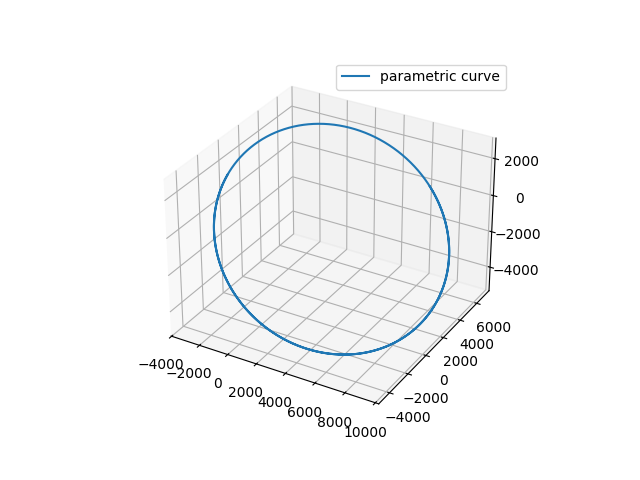
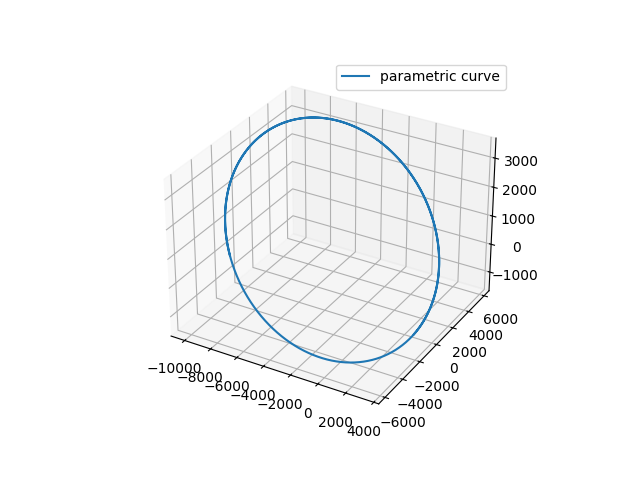
3c in process

Changed region(s): [[0.2188, 0.1875, 0.8438, 0.9062]]

diff --git a/3с/modelling.py b/3с/modelling.py
@@ -1,7 +1,18 @@
-import numpy as np
 import matplotlib.pyplot as plt
+import numpy as np
+
 from rkSolver import RK4Model
 from init3c import *
+
+def gravMoment(rIF, Jtense, quatBF, mu):
+    # rIF - радиус-вектор КА в ССК (np.ndarray dim3)
+    # Jtense - тензор инерции (np.ndarray dim 3x3)
+    # quat - кватернион ориентации из ИСК в ССК (np.ndarray dim4)
+
+    rC  = np.linalg.norm(rIF)
+    rBF = Quaternion(quatBF).IF2BF(rIF)
+    JrBF = Jtense.dot(rBF)
+    return 3 * mu / rC**5 * np.dot(rBF, JrBF)
 
 # y = np.array([rIF, vIF, qBF, omegaBf])
 # y[0:3] == rIF
@@ -9,30 +20,104 @@ from init3c import *
 # y[6:10] == qBF.q
 # y[10:] == omegaBf
 gravMomentMoving = lambda y: np.array([
+    # изменение радиус вектора dr_dt = v
     *y[3:6],
+    # изменение скорости, задача 2х тел dv_dt = -mu * rVec / r**3
     *(-mu * y[0:3] / np.linalg.norm(y[0:3])**3),
-    *(1.0 / 2 * (Quaternion(y[6:10]).vecMulQuat(y[10:]))),
-    *(np.dot(
-        np.linalg.inv(Jtense),
-        np.cross(np.dot(Jtense, y[10:]), y[10:]) + (3 * mu / (np.linalg.norm(y[0:3]))**5) *
-        np.cross(Quaternion(y[6:10]).IF2BF(y[0:3]), np.dot(Jtense, Quaternion(y[6:10]).IF2BF(y[0:3])))
-    ))
-    ], dtype=float)
+    # формула Эйлера для кватернионов dq_dt = 1/2[omegaBF x q]
+    *(0.5 * (Quaternion(y[6:10]).quatMulVec(y[10:]))),
+    # изменение полной угловой скорости
+    # domega_dt = (J^{-1})([J(omega) x omega] + 3mu/r**3([A(rIF) x J(A(rIF))])
+    # J - тензор инерции, A(rIF) = rBF = Qconj * rIF * Q, где Q - кватернион
+    *(np.linalg.inv(Jtense)).dot(
+        np.cross(Jtense.dot(y[10:]), y[10:]) + gravMoment(y[0:3], Jtense, y[6:10], mu)
+            )
+], dtype=float)
 
+# интегрирование уравнений движения
 ySolution = RK4Model(phaseVec, t, dt, gravMomentMoving)
-omegaArr = ySolution[:, 10:]
-# JacobiIntegral = 1 / 2 * np.dot(omegaArr, np.dot(Jtense, omegaArr)) +
-#     3 / 2 *
+# массив абсолютной угловой скорости в ССК
+omegaBF = ySolution[:, 10:]
 rVecIF = ySolution[:, 0:3]
 vVecIF = ySolution[:, 3:6]
+cVecIF = np.cross(rVecIF, vVecIF)
 
-kineticMoment = [np.linalg.norm(np.cross(rVecIF[i], vVecIF[i])) for i in range(len(t))]
+quatBF = [Quaternion(ySolution[i, 6:10]) for i in range(len(t))]
+omegaOrbIF = [cVecIF[i] / np.linalg.norm(cVecIF[i]) for i in range(len(t))]
+omegaOrbBF = [quatBF[i].IF2BF(omegaOrbIF[i]) for i in range(len(t))]
+omegaRelBF = omegaBF - omegaOrbBF
+# модуль орбитальной угловой скорости
+omega0 = np.array([np.sqrt(mu / np.linalg.norm(rVecIF[i])**3) for i in range(len(t))])
+# орты ССК
+E1 = np.array([1, 0, 0], dtype=float)
+E2 = np.array([0, 1, 0], dtype=float)
+E3 = np.cross(E1, E2)
+
+# интеграл Якоби h = 1/2 (omegaRel, J(omegaRel)) - 1/2 * omega0**2(E2, J(E2)) + 3/2(E3, J(E3))
+JacobiIntegral = np.zeros(len(t))
+for i in range(len(t)):
+
+    JacobiIntegral[i] = (
+            0.5 * np.dot(omegaRelBF[i], np.dot(Jtense, omegaRelBF[i])) +
+            omega0[i]**2 * (1.5 * np.dot(E3, np.dot(Jtense, E3)) - 0.5 * np.dot(np.dot(Jtense, E2), E2))
+                        )
+
+
+kineticMoment = [(np.dot(omegaOrbBF[i], Jtense.dot(omegaOrbBF[i])) / 2
+                         + np.dot(omegaRelBF[i], Jtense.dot(omegaRelBF[i])) / 2) for i in range(len(t))]
 
 plt.plot(t, kineticMoment)
 plt.title('kineticMoment = func(t)')
-plt.xlabel('kineticMoment')
-plt.ylabel('t')
+plt.ylabel('kineticMoment')
+plt.xlabel('t')
 plt.minorticks_on()
 plt.grid(which="both", axis='both')
 plt.show()
+plt.savefig('kineticMoment3c.png')
 plt.close()
+
+plt.plot(t, np.round(JacobiIntegral, 6))
+plt.title('JacobiIntegral = func(t)')
+plt.ylabel('JacobiIntegral')
+plt.xlabel('t')
+plt.minorticks_on()
+plt.grid(which="both", axis='both')
+plt.show()
+plt.savefig('JacobiIntegral3c.png')
+plt.close()
+
+for i in range(3):
+    omega = omegaBF[:, i]
+    plt.plot(t, np.round(omega, 6), label = 'omega_{}'.format(i))
+    plt.legend()
+plt.title('angle velovity = func(t)')
+plt.ylabel('angle velovity')
+plt.xlabel('t')
+plt.minorticks_on()
+plt.grid(which="both", axis='both')
+plt.show()
+plt.savefig('angleVelovity3c.png')
+plt.close()
+
+# plt.plot(t, np.round(omega0,5))
+# plt.title('angle velovity orb= func(t)')
+# plt.ylabel('angle velovity orb')
+# plt.xlabel('t')
+# plt.legend()
+# plt.minorticks_on()
+# plt.grid(which="both", axis='both')
+# plt.show()
+# plt.savefig('angleVelovityOrb3c.png')
+# plt.close()
+#
+
+# ax = plt.figure().add_subplot(projection='3d')
+# # Prepare arrays x, y, z
+# x = rVecIF[:, 0]
+# y = rVecIF[:, 1]
+# z = rVecIF[:, 2]
+# ax.plot(x, y, z, label='parametric curve')
+# plt.legend()
+# plt.show()
+# plt.savefig('3dOrbitGraph3c.png')
+# plt.close()

diff --git a/3с/init3c.py b/3с/init3c.py
@@ -2,6 +2,8 @@ import  numpy as np
 from orbitalToCartesian import orbitalToCartesian
 from quaternion import Quaternion
 
+# IF - ИСК, BF - ССК, OF - ОСК
+# переводит вектор vecIF из ИСК в ОСК
 def IFtoOF(rIF, vIF, vecIF):
     cVec = np.cross(rIF, vIF)  # вектор момента импульса
     # орты связанной системы координат
@@ -10,39 +12,37 @@ def IFtoOF(rIF, vIF, vecIF):
     e1 = np.cross(e2, e3)
     # матрица перехода из ОСК в ИСК
     matrixOBF2IF = np.array([e1, e2, e3], dtype=float)
-    vecOF = np.dot(matrixOBF2IF, vecIF)
+    vecOF = matrixOBF2IF.dot(vecIF)
     return vecOF
 
-
+# параметры моделирования
 dt = float(1.0) # шаг моделирования РК4
 tFinal = 10000.0 # время моделирования
 t = np.arange(0.0, tFinal, dt) # массив эпох
 
+# орбитальные элементы для задания начальных данных r, v
 a0 = 7000 # большая полуось (км)
-ecc0 = 0.5 # эксцентреситет
+ecc0 = 0.0 # эксцентреситет - круговая орбита
 trueAnomaly0 = np.deg2rad(15) # истинная аномалия
 raan0 = np.deg2rad(45) # долгота восходящего узла
 inc0 = np.deg2rad(40)  # наклонение
 aop0 = np.deg2rad(120) # аргумент перицентра
-mu = 398600.4418 # km^3 / sec^2 # гравитационный параметр
+
+# гравитационный параметр
+mu = 398600.4418 # km^3 / sec^2
 
 # тензор инерции
-Jtense = np.array([[0.4, 0, 0], [0, 0.5, 0], [0, 0, 0.3]], dtype=float)
+Jtense = np.diag([3.0,4.0,2.0]) * 1e-6# кг*км^2
+
 # получаем начальные радиус-вектор и скорость в ИСО
 [rIF0, velIF0] = orbitalToCartesian(a0, ecc0, trueAnomaly0, raan0, inc0, aop0, mu)
 
-# ориентация КА относительно ОСК
+# кватернион ориентации, задаёт переход из ИСК в ССК
 # отсылается к классу Quaternion  в файле quaternion.py
-quat0 = Quaternion(np.random.normal(0, 1, 4))
+quat0 = Quaternion(np.array([1.0, 0, 0, 0], dtype= float))
 
-# начальная относительная угловая скорость в ССК задаётся случайным образом
-omegaRelBF = np.array([0.001, np.random.normal(np.pi / 90, np.pi / 900), 0.001])
-# (переносная) угловая скорость движения по орбите в начальный момент в ИСО
-omegaIForb0 = np.cross(rIF0, velIF0) / np.linalg.norm(rIF0)**2
-# (переносная) угловая скорость движения по орбите в начальный момент в ССК
-omegaBForb0 = quat0.IF2BF(omegaIForb0)
-# полная угловая скорость в ССК
-omegaBF0 = omegaBForb0 + omegaRelBF
+# полная угловая скорость в ССК в начальный момент
+omegaBF0 = np.array([0.001, 0.001, 0.001], dtype=float) # рад/с
 
 # начальный фазовый вектор [rx, ry, rx, vx, vy, vz, q0, qi, qj, qk, omega1, omega2, omega3]
 phaseVec = np.array([*rIF0, *velIF0, *quat0.q, *omegaBF0], dtype=float)

diff --git a/2a/twoBodiesTask.py b/2a/twoBodiesTask.py
@@ -1,3 +1,5 @@
+import numpy as np
+
 from rkSolver import RK4Model
 from init2a import *
 import  matplotlib.pyplot as plt
@@ -25,6 +27,7 @@ def orbitalToCartesian(a, ecc, trueAnomaly, raan, inc, aop):
     rVecISC = rotRaan.dot(rotInc.dot(rotAop.dot(rVecOSC)))
     velVecISC = rotRaan.dot(rotInc.dot(rotAop.dot(velVecOSC)))
     return np.concatenate((rVecISC, velVecISC), axis=None)
+
 
 def cartesianToOrbital(stateRV, mu):
 
@@ -59,18 +62,19 @@ def cartesianToOrbital(stateRV, mu):
 
     eccVec = 1 / mu * (np.cross(vVec, cVec) - mu * (rVec / r))
     # aop = (np.arctan2(eccVec[1], eccVec[0]) - raan) % (2 * np.pi) if ecc > 1e-8 else None  # argument of pericenter else NaN
-    aop = np.rad2deg(np.arctan2(np.dot(clVec, fVec), np.dot(lVecNorm, fVec)))
+    aop = np.rad2deg(np.arctan2(np.dot(clVec, fVec), np.dot(lVecNorm, fVec)) - np.pi/6)
     trueAnomaly = np.rad2deg((np.arccos(np.dot(eccVec/ecc, rVec/r))) % (2 * np.pi)) if ecc > 1e-8 else None
-
+    print(aop)
     return np.array([inc, raan, a, ecc, aop, trueAnomaly, c, f])
 
-state0 = orbitalToCartesian(a0, ecc0, trueAnomaly0, raan0, inc0, aop0)
-
+state0 = orbitalToCartesian(a0, ecc0, trueAnomaly0, raan0, inc0, aop0, mu)
+cartesianToOrbital(state0, mu)
 
 twoBodyModel = lambda stateVec: np.concatenate((stateVec[3:], -mu * stateVec[0:3] / np.linalg.norm(stateVec[0:3])**3),axis=None)
 stateRVarr = RK4Model(state0, t, dt, twoBodyModel)
-ax = plt.figure().add_subplot(projection='3d')
 
+
+ax = plt.figure().add_subplot(projection='3d')
 # Prepare arrays x, y, z
 x = stateRVarr[:, 0]
 y = stateRVarr[:, 1]

diff --git a/3с/quaternion.py b/3с/quaternion.py
@@ -5,6 +5,7 @@ class Quaternion:
     def __init__(self, q = np.array([1.0, 0.0, 0.0, 0.0])):
         self.q = np.array(q, dtype=float)
         self.normalize()
+
     # нормируем np.array() для __init__
     def normalize(self):
         norm = np.linalg.norm(self.q)
@@ -13,6 +14,7 @@ class Quaternion:
             self.q = self.q / norm
         else:
             self.q = np.array([1, 0, 0, 0], dtype=float)
+
     # переопределение оператора * для кватернионного умножения
     def __mul__(self, other):
         # other - объект класса Quaternion
@@ -20,7 +22,7 @@ class Quaternion:
             q1 = self.q
             q2 = other.q
 
-            qMult = np.zeros(4)
+            qMult = np.zeros(4, dtype=float)
             qMult[0] = q1[0] * q2[0] - np.dot(q1[1:], q2[1:])
             qMult[1:] = q1[0] * q2[1:] + q2[0] * q1[1:] + np.cross(q1[1:], q2[1:])
 
@@ -53,7 +55,7 @@ class Quaternion:
     def IF2BF(self, vecIF):
 
         quatVecIF = Quaternion(np.array([0.0, *vecIF], dtype=float))
-        quatVecBF = (self.getConjugate() * quatVecIF) * self
+        quatVecBF = self.getConjugate() * quatVecIF * self
         vecBF = quatVecBF.q[1:]
 
         return vecBF

diff --git a/3с/orbitalToCartesian.py b/3с/orbitalToCartesian.py
@@ -1,4 +1,6 @@
 import numpy as np
+from numpy.matrixlib.defmatrix import matrix
+
 
 def orbitalToCartesian(a, ecc, trueAnomaly, raan, inc, aop, mu):
     p = a * (1 - ecc ** 2)
@@ -19,7 +21,8 @@ def orbitalToCartesian(a, ecc, trueAnomaly, raan, inc, aop, mu):
     rotAop = np.array([[np.cos(aop), -np.sin(aop), 0],
                        [np.sin(aop), np.cos(aop), 0],
                        [0, 0, 1]])
-    rVecISC = rotRaan.dot(rotInc.dot(rotAop.dot(rVecOSC)))
-    velVecISC = rotRaan.dot(rotInc.dot(rotAop.dot(velVecOSC)))
+    rotCorrection = np.array([[0, 1, 0], [0, 0, 1], [1, 0, 0]], dtype=float)
+    rVecISC = rotAop.dot(rotInc.dot(rotRaan.dot(rotCorrection.dot(rVecOSC))))
+    velVecISC =  rotAop.dot(rotInc.dot(rotRaan.dot(rotCorrection.dot(velVecOSC))))
     return rVecISC, velVecISC
 

diff --git a/2a/init2a.py b/2a/init2a.py
@@ -1,8 +1,8 @@
 import numpy as np
 
-inc0 = np.deg2rad(40)
+inc0 = np.deg2rad(23)
 raan0 = np.deg2rad(45)
-aop0 = np.deg2rad(120)
+aop0 = np.deg2rad(283)
 a0 = 7000 # km
 ecc0 = 0.5
 trueAnomaly0 = np.deg2rad(15)

diff --git a/2b/j2calc.py b/2b/j2calc.py
@@ -135,3 +135,4 @@ for i in range(len(titleAnalytical)):
     plt.grid(which='both', axis='both')
     plt.savefig(titleAnalytical[i] + '.png')
     plt.close()
+
